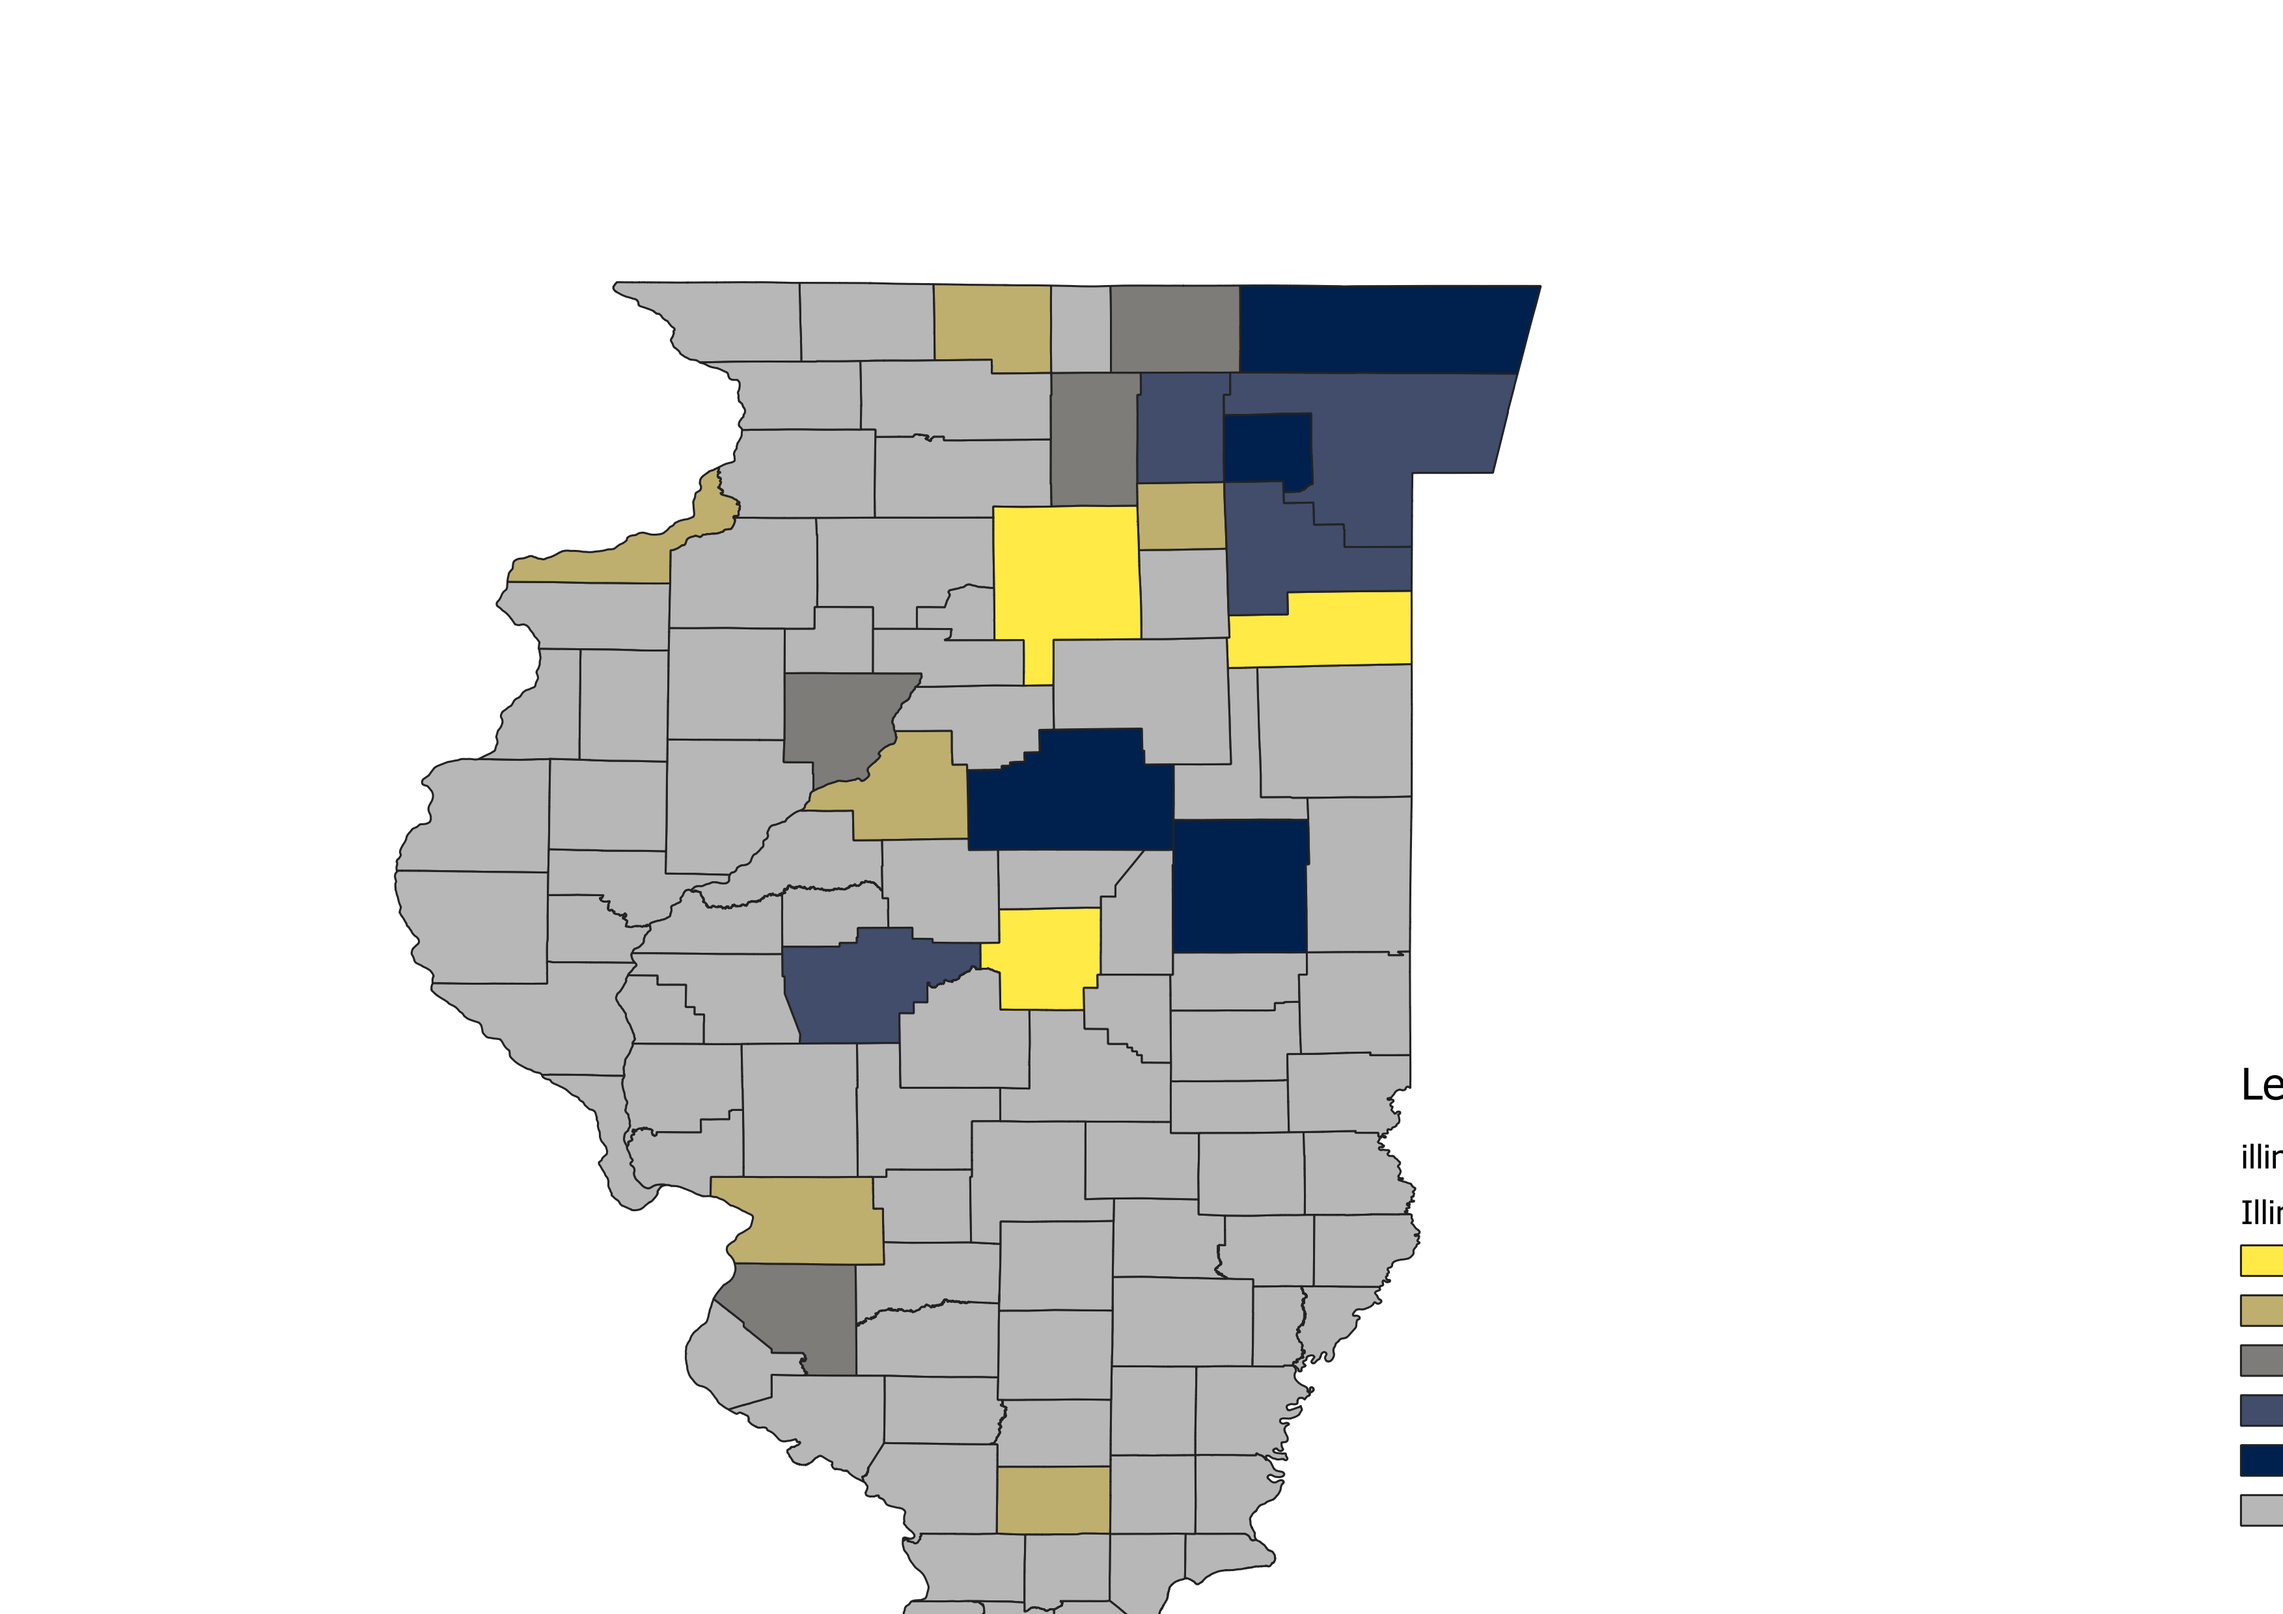
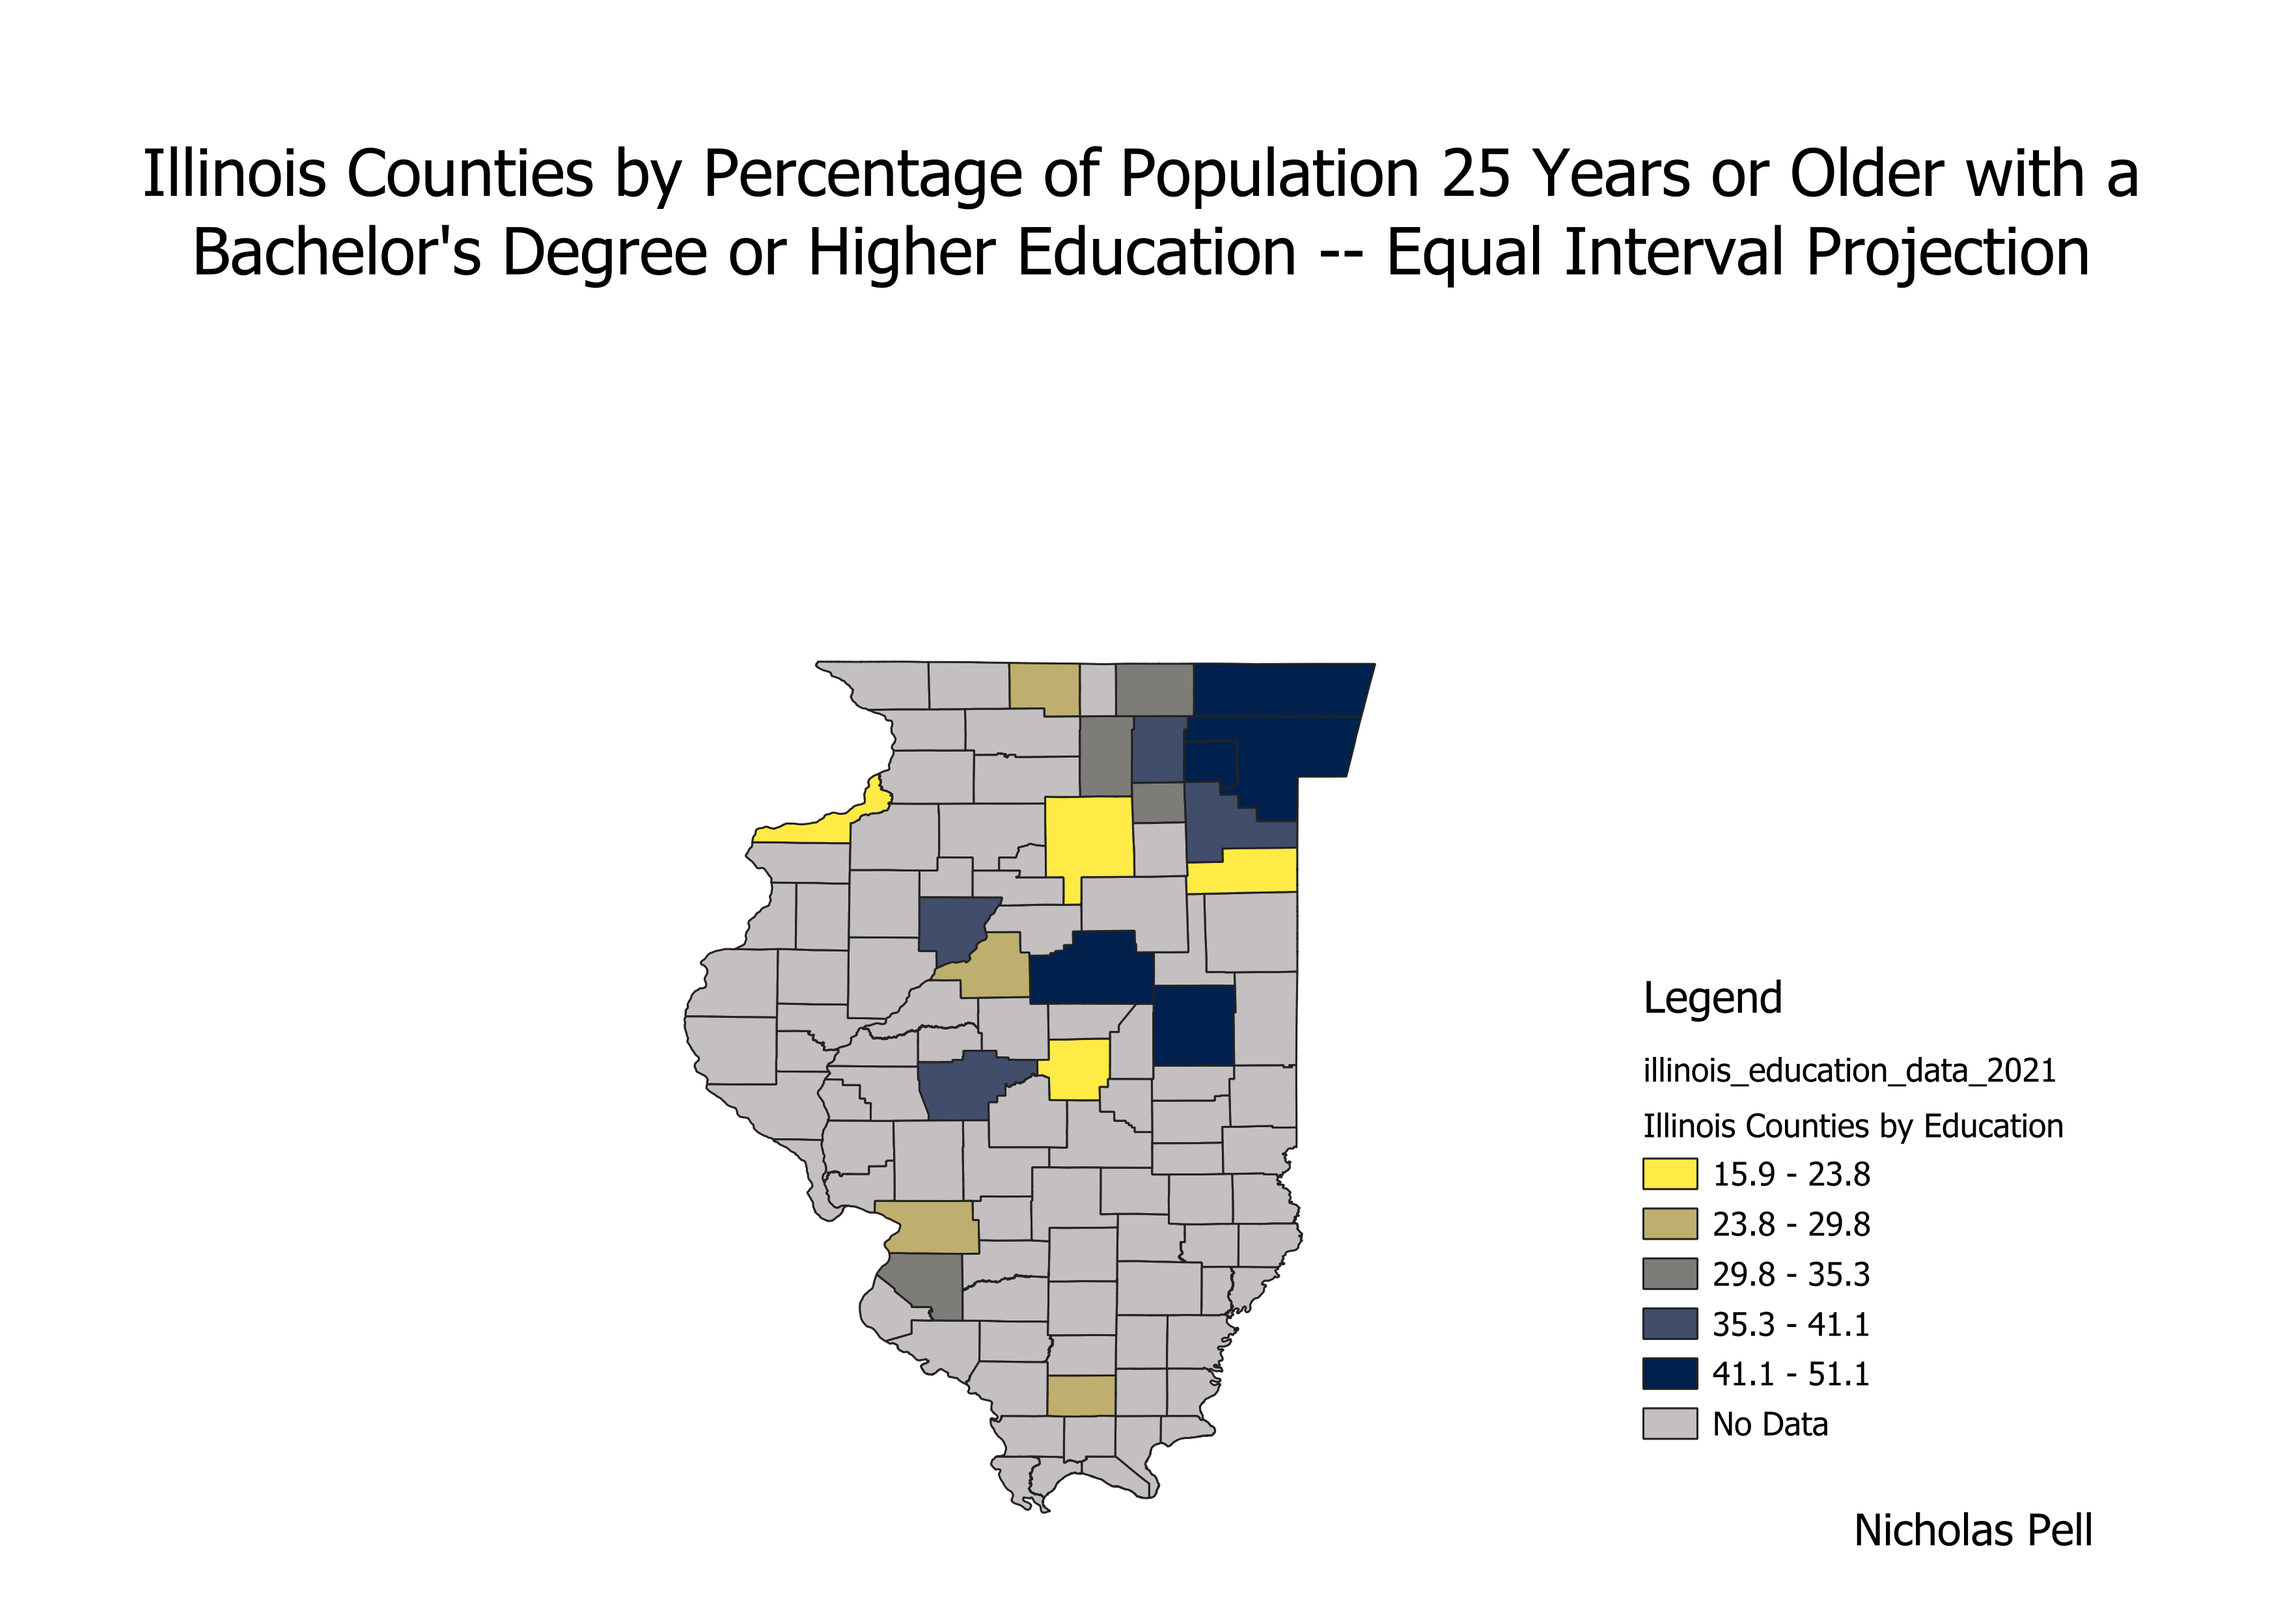
new photo

diff --git a/hw6pt2.html b/hw6pt2.html
@@ -14,6 +14,10 @@
     <img src="Illinois_Equal_Interval.png" alt="Illinois Equal Interval Projection" width='500px'>
     </a>
 
+    <a href="Illinois_Equal_Count.png">
+        <img src="Illinois_Equal_Count.png" alt="Illinois Equal Count Projection" width='500px'>
+        </a>
+
 <!-- Link to your shapefile in Github and you CSV -->
 <h2>Data used for this project</h2>
     <a href="illinois_educationdata_2021.csv"> CSV dataset </a>
